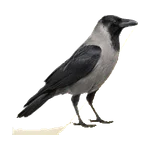
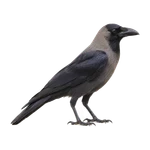
Last 8 tile images (termite worker, winged termite, tick eggs, tick larvae, bird gel, terrace net, wooden pallets, new house crow): all 62 pest images done

Changed region(s): [[0.0533, 0.08, 0.9333, 0.9067]]

diff --git a/src/config/pageContentHelpers.ts b/src/config/pageContentHelpers.ts
@@ -30,14 +30,7 @@ const PEST_ASSET_BASE = '/assets/img/pests';
 const PEST_IMAGE_FALLBACKS: Record<string, string> = {
   // --- Dubai species and "signs" tiles added 21 Nov 2026: stand-ins until the real image exists.
   //     Full list of images to produce: docs/pest-image-list.md
-  'winged-termite': 'termite',
-  'termite-worker': 'termite',
   midges: 'gnat',
-  'tick-larvae': 'brown-dog-tick',
-  'tick-eggs': 'brown-dog-tick',
-  'bird-gel': 'bird',
-  'terrace-net': 'bird',
-  'wooden-pallets': 'commercial-pc',
   // --- Ticks ---
   'american-dog-tick': 'blacklegged-tick',
   'bont-tick': 'blacklegged-tick',

diff --git a/CLAUDE.md b/CLAUDE.md
@@ -52,7 +52,7 @@ npm run preview   # serve the production build (out/) at localhost:4000: what th
 
 **Hero claims per page (v2):** price = the page's main service (first `priceKeys` entry) via `heroPriceText()`, area pages use `'lowest'`; warranty = the main service's `warrantyDays` via `heroWarrantyDays()` (no warranty line on mosquito, fly, snake, scorpion, camel spider, bird, business pages). Phone pest grid = the page's own pests + General Pest Control + "50+ more".
 
-**Photos:** every guide/community has `photos` briefs. `ImagePlaceholder` shows a labelled placeholder in `npm run dev` and an existing team photo in production. Add the real photo by setting `src` on the brief. Full list for the team: `docs/photo-shot-list.md` (52 photos). Missing pest / bird / method tile images (62): `docs/pest-image-list.md`, with AI image prompts in `docs/pest-image-prompts.md` (photo-realistic cut-out on white, three-quarter top view; delivered as `<key>.png` 1024 px, converted to 300 / 150 / 100 px WebP with transparency by `node scripts/add-pest-images.mjs <folder>`, then drop the key from `PEST_IMAGE_FALLBACKS`). 54 of 62 done 26 Nov 2026 (still to make: termite-worker, winged-termite, tick-eggs, tick-larvae, bird-gel, terrace-net, wooden-pallets). Tips that worked: ask ChatGPT for a pure white background (its transparent PNGs often carry a grey or brown haze), top-down views for spiders and ticks (leg counts come out right), and check every leg count.
+**Photos:** every guide/community has `photos` briefs. `ImagePlaceholder` shows a labelled placeholder in `npm run dev` and an existing team photo in production. Add the real photo by setting `src` on the brief. Full list for the team: `docs/photo-shot-list.md` (52 photos). Missing pest / bird / method tile images (62): `docs/pest-image-list.md`, with AI image prompts in `docs/pest-image-prompts.md` (photo-realistic cut-out on white, three-quarter top view; delivered as `<key>.png` 1024 px, converted to 300 / 150 / 100 px WebP with transparency by `node scripts/add-pest-images.mjs <folder>`, then drop the key from `PEST_IMAGE_FALLBACKS`). All 62 done (54 on 26 Nov, the last 8 incl. a new house-crow on 27 Nov 2026). Tips that worked: ask ChatGPT for a pure white background (its transparent PNGs often carry a grey or brown haze), top-down views for spiders and ticks (leg counts come out right), and check every leg count.
 
 **Where things live (one place each):**
 
@@ -176,6 +176,7 @@ Per-page schemas:
 
 | Date | Task | Files Changed |
 |------|------|---------------|
+| 2026-11-27 | **Last 8 tile images**: termite worker, winged termite, tick eggs, tick larvae (6 legs), bird gel, terrace net (black net kept: standard in Dubai and visible at tile size), wooden pallets (ISPM 15 HT stamp), new house crow. All 62 images from `docs/pest-image-list.md` now exist | `public/assets/img/pests/`, `pageContentHelpers.ts`, `docs/pest-image-list.md` |
 | 2026-11-26 | **54 new pest, bird and method tile images**: generated in ChatGPT with `docs/pest-image-prompts.md`, checked one by one (legs, colours, look at tile size), converted with `scripts/add-pest-images.mjs` (lays the image on white, cuts the white background out by flood fill from the edges, trims, centres at 86% fill, writes 300 / 150 / 100 px WebP) and their stand-ins removed from `PEST_IMAGE_FALLBACKS`. Gecko and snake tiles back on the Lizard and Snake heroes; mynah tile and phone hero icon now a real mynah; Bird Netting / Anti-Bird Nets hero tiles use `bird-netting`, Solar Bird Proofing uses `solar-panel-mesh` | `public/assets/img/pests/`, `scripts/add-pest-images.mjs`, `pageContentHelpers.ts`, `pageContent.ts`, `HomeHero.tsx`, `docs/pest-image-list.md` |
 | 2026-11-26 | **Listing sheet + review messages**: `docs/business-listing-sheet.md` (exact name, phone, website, hours, categories, short/medium/long descriptions, services with links, images, directories in order with status, local link ideas) and `docs/review-messages.md` (review link, WhatsApp messages in English, Arabic and Roman Urdu, reminder, what to do when a customer asks you to write the review, Google rules, reply templates). Search Console grouped by service (90 days): birds 115 impressions avg position 66, cockroaches 57 / 73, bed bugs 52 / 43, rats 35 / 70, scorpions + camel spiders 22 / 18, wasps 20 / 49, mosquitoes 18 / 67; all 15 clicks from the brand name | `docs/` |
 | 2026-11-26 | **Unique phone snippet per page**: Google showed the generic phone-hero line "We specialize in pest control, bird control & pest removal across Dubai!" as the snippet (same on all 54 pages). `HomeHero` now takes `tagline` (service pages: their meta description, area pages: theirs, homepage: own line). Bird FAQ gained "What do your bird control services include?". Keyword-specific wording changes for one search were tried and reverted (owner): optimise pages for the whole query group from Search Console, not single searches | `HomeHero.tsx`, `[slug]/page.tsx`, `pageContent.ts` |

diff --git a/docs/pest-image-list.md b/docs/pest-image-list.md
@@ -1,6 +1,6 @@
 # Pest image list
 
-> **Status 26 Nov 2026: 54 of 62 added** (ChatGPT images, prompts in `docs/pest-image-prompts.md`; the `balcony-net` tile is an outside view of two tower balconies). **Still to make:** `termite-worker`, `winged-termite`, `tick-eggs`, `tick-larvae`, `bird-gel`, `terrace-net`, `wooden-pallets` (they show their stand-in until then), and optionally a better `house-crow`. Rows below are the original brief; an image exists for every key not in this status line.
+> **Status 27 Nov 2026: all 62 images added** (ChatGPT images made with `docs/pest-image-prompts.md`, converted with `scripts/add-pest-images.mjs`; `house-crow` replaced with a new image; the `balcony-net` tile is an outside view of two tower balconies). The table below is the original brief, kept for reference.
 
 Tiles in the "What we treat" grids and hero pest icons that still use a stand-in image. Generated from
 `src/config/pageContent.ts` (21 Nov 2026). The site works without them; each tile shows the stand-in until the
